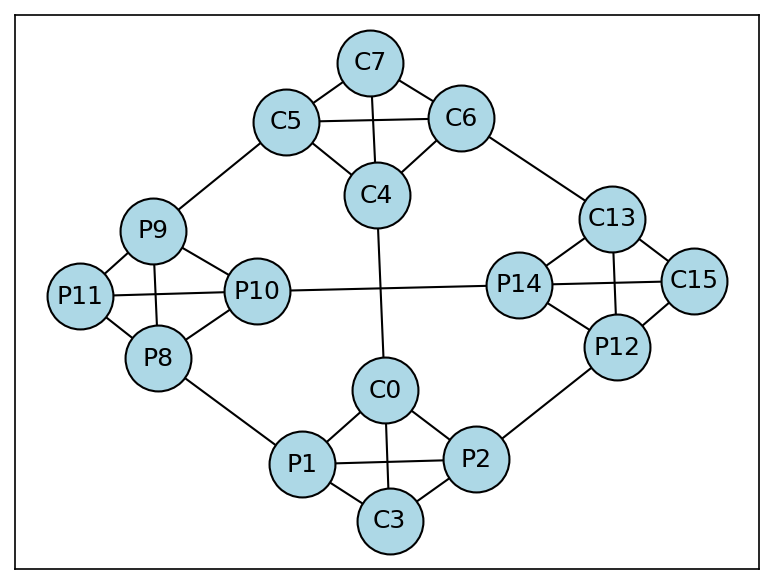
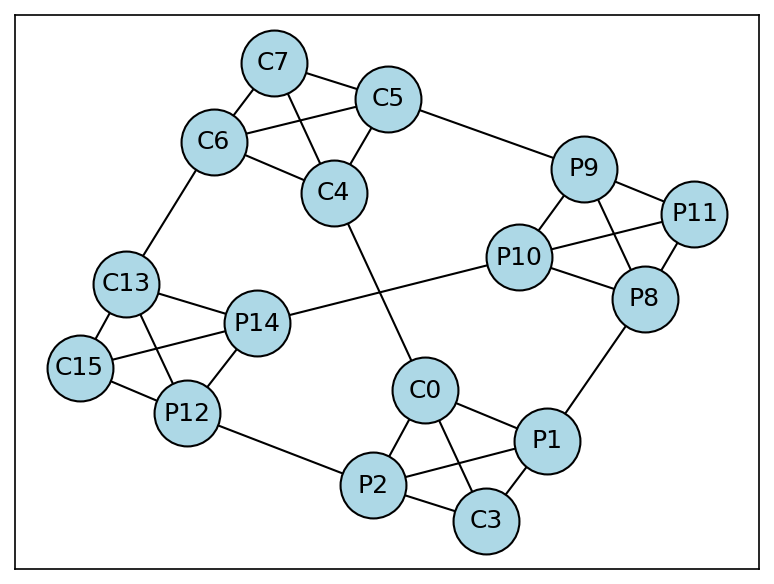
created minimum viable product

Changed region(s): [[0.062, 0.0308, 0.9612, 0.9555]]

diff --git a/backend.py b/backend.py
@@ -1,11 +1,16 @@
 import ast
+import math
 import uuid
 import heapq
+from PIL import Image
 import networkx as nx
 import matplotlib.pyplot as plt
 
 
 class VisualisationUtils:
+    def __init__(self) -> None:
+        self._seed = 1
+
     def adjacency_to_graph(self, adjacency_list: str) -> nx.Graph:
         """
         Convert the streamlit input into a proper graph for rendering
@@ -20,7 +25,7 @@ class VisualisationUtils:
         """
         Draw the graph using matplotlib. Claude helped me with this.
         """
-        pos = nx.spring_layout(G)
+        pos = nx.spring_layout(G, seed=self._seed)
         nx.draw_networkx_nodes(
             G,
             pos,
@@ -34,6 +39,125 @@ class VisualisationUtils:
         plt.savefig(outfile, dpi=150, bbox_inches="tight")
         plt.close()
 
+    def schedule_to_gif(
+        self,
+        G: nx.Graph,
+        schedule: dict[int, dict[tuple[str, str], str]],
+        outfile: str = "schedule.gif",
+    ):
+        """
+        Convert the schedule to a GIF for visualisation.
+        Create individual frames for each timestep and combine with PIL.
+        Claude helped me write this function.
+        """
+
+        # Create random coluors for each UUID
+        colours = {}
+        for edges in schedule.values():
+            for id in edges.values():
+                if id not in colours:
+                    colours[id] = f"#{id[:6]}"
+
+        # Compute layout once
+        pos = nx.spring_layout(G, seed=self._seed)
+
+        # Map transfer id to (from, to) nodes for legend
+        transfer_map = {}
+        for timestep_edges in schedule.values():
+            for edge, id in timestep_edges.items():
+                if id not in transfer_map:
+                    transfer_map[id] = edge
+
+        # Prepare frames
+        images = []
+        for timestep in sorted(schedule.keys()):
+            plt.figure(figsize=(6, 4))
+            # Draw nodes and labels
+            nx.draw_networkx_nodes(
+                G,
+                pos,
+                node_color="lightblue",
+                node_size=1000,
+                linewidths=1,
+                edgecolors="black",
+            )
+            nx.draw_networkx_labels(G, pos)
+
+            # Prepare edge colours: default black, highlight scheduled edges
+            edge_colours = []
+            for edge in G.edges():
+                # Edge may be in either direction
+                edge_key = (edge[0], edge[1])
+                edge_key_rev = (edge[1], edge[0])
+                if edge_key in schedule[timestep]:
+                    edge_colours.append(colours[schedule[timestep][edge_key]])
+                elif edge_key_rev in schedule[timestep]:
+                    edge_colours.append(colours[schedule[timestep][edge_key_rev]])
+                else:
+                    edge_colours.append("black")
+
+            nx.draw_networkx_edges(
+                G, pos, edge_color=edge_colours, width=2, connectionstyle="arc3,rad=0.1"
+            )
+
+            # Add cycle counter to top left
+            plt.text(
+                0.01,
+                0.98,
+                f"Cycle {timestep}",
+                transform=plt.gca().transAxes,
+                fontsize=8,
+                va="top",
+                ha="left",
+                color="black",
+            )
+
+            # Add legend for active transfers in this cycle
+            active_ids = set(schedule[timestep].values())
+            legend_y = 0.91
+            for id in sorted(active_ids):
+                colour = colours[id]
+                edge = transfer_map[id]
+                label = f"{edge}"
+                # Draw coloured square
+                plt.gca().add_patch(
+                    plt.Rectangle(
+                        (0.01, legend_y),
+                        0.025,
+                        0.025,
+                        transform=plt.gca().transAxes,
+                        color=colour,
+                        clip_on=False,
+                    )
+                )
+                # Draw label next to square
+                plt.text(
+                    0.04,
+                    legend_y + 0.012,
+                    label,
+                    transform=plt.gca().transAxes,
+                    fontsize=5,
+                    va="center",
+                    ha="left",
+                    color="black",
+                )
+                legend_y -= 0.04  # Move down for next legend entry
+
+            # Save frame
+            frame_path = f"{outfile}_{timestep}.png"
+            plt.savefig(frame_path, dpi=150, bbox_inches="tight")
+            plt.close()
+            images.append(Image.open(frame_path))
+
+        # Save GIF
+        images[0].save(
+            f"{outfile}.gif",
+            save_all=True,
+            append_images=images[1:],
+            duration=2000,
+            loop=0,
+        )
+
 
 class SchedulingUtils:
     def __init__(self) -> None:
@@ -43,22 +167,22 @@ class SchedulingUtils:
 
     def create_graph(
         self, adjacency_list: list[tuple[str, str]]
-    ) -> dict[str, list[str]]:
+    ) -> dict[str, set[str]]:
         """
         Create hashtable graph from adjacency list (simplifies Dijkstra)
         """
         graph = {}
         for edge in adjacency_list:
             if edge[0] not in graph:
-                graph[edge[0]] = []
+                graph[edge[0]] = set()
             if edge[1] not in graph:
-                graph[edge[1]] = []
-            graph[edge[0]].append(edge[1])
-            graph[edge[1]].append(edge[0])
+                graph[edge[1]] = set()
+            graph[edge[0]].add(edge[1])
+            graph[edge[1]].add(edge[0])
         return graph
 
     def shortest_path(
-        self, graph: dict[str, list[str]], transfer: tuple[str, str]
+        self, graph: dict[str, set[str]], transfer: tuple[str, str]
     ) -> list[str]:
         """
         Find shortest path from node A to node B as a list of nodes
@@ -91,7 +215,7 @@ class SchedulingUtils:
 
     def uncontested_paths(
         self,
-        graph: dict[str, list[str]],
+        graph: dict[str, set[str]],
         data_transfers: list[tuple[str, str]],
     ) -> list[list[str]]:
         """
@@ -114,7 +238,7 @@ class SchedulingUtils:
                         graph_local[path[i]].remove(path[i - 1])
                     # Could be that path doesn't exist ing raph
                     except Exception as e:
-                        pass
+                        continue
 
         return paths
 
@@ -145,16 +269,19 @@ class SchedulingUtils:
         for i, path in enumerate(paths):
             id = ids[i]
             timestep = 0
+            print(f"Scheduling path {id} with nodes {path}")
 
             # Schedule each edge in the path, proagating one timestep at a time
             for j in range(1, len(path)):
                 edge = (path[j - 1], path[j])
+
+                # Pipeline operation to next timestep if edge in use at present
+                while edge in schedule.get(timestep, {}):
+                    timestep += 1
                 if timestep not in schedule:
                     schedule[timestep] = {}
 
-                # Pipeline operation to next timestep if edge in use at present
-                while edge in schedule[timestep]:
-                    timestep += 1
                 schedule[timestep][edge] = id
+                timestep += 1
 
         return schedule

diff --git a/frontend.py b/frontend.py
@@ -43,9 +43,23 @@ if submit and adjacency_list and data_transfers:
         st.image("original.png", caption="Original Graph")
 
         # Create the schedule
+        st.subheader("Schedule")
+        schedule = s.create_schedule(
+            adjacency_list, data_transfers, objective.lower() != "minimise latency"
+        )
+        v.schedule_to_gif(
+            graph,
+            schedule=schedule,
+            outfile="schedule",
+        )
+        st.image("schedule.gif", caption="Scheduled Transfers")
+        st.write(f"Latency: {len(schedule.keys())} cycles")
+        st.write(
+            f"Throughput: {sum( [len(schedule[t].keys()) for t in schedule.keys()] ) / len(schedule.keys())} transfers per cycle"
+        )
 
     except Exception as e:
-        st.error(f"Andrew thought of an edge case. There goes by shot at the job 😭")
+        st.error(f"Andrew thought of an edge case. There goes my shot at the job 😭")
 
 # Error message
 elif submit and not (adjacency_list and data_transfers):
